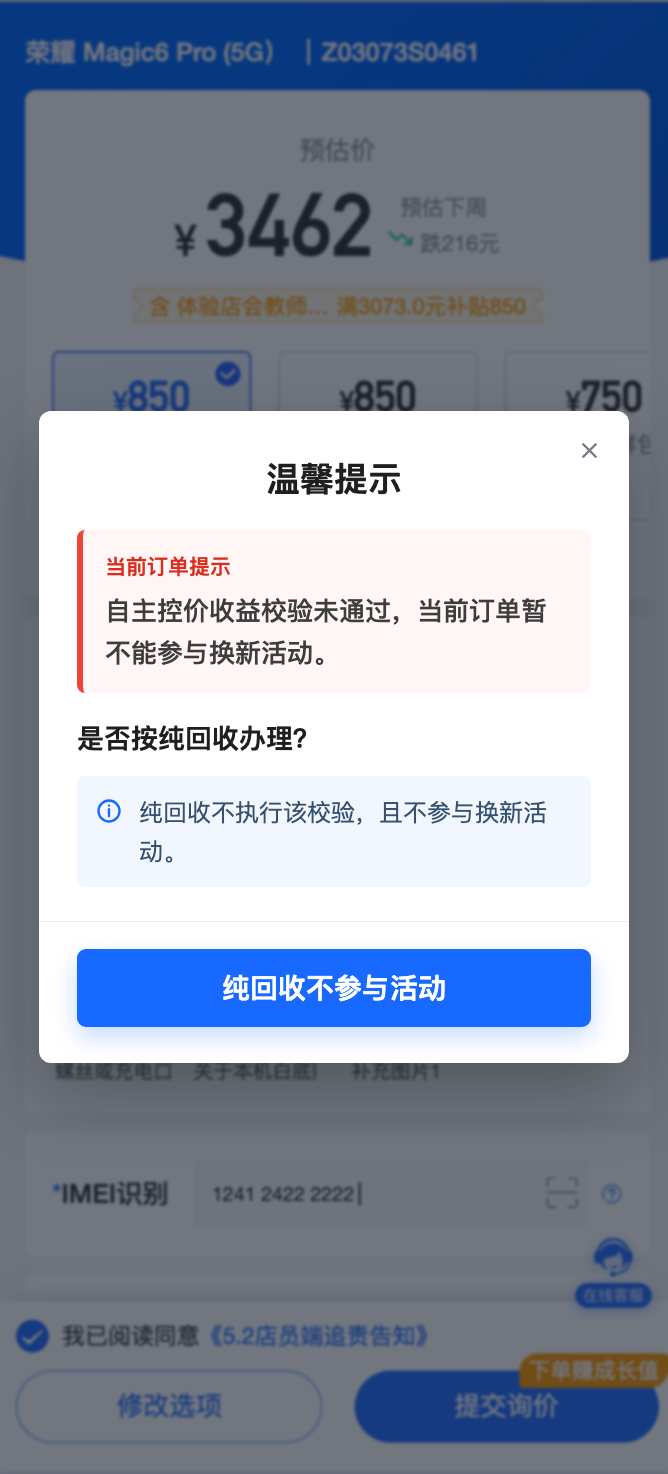
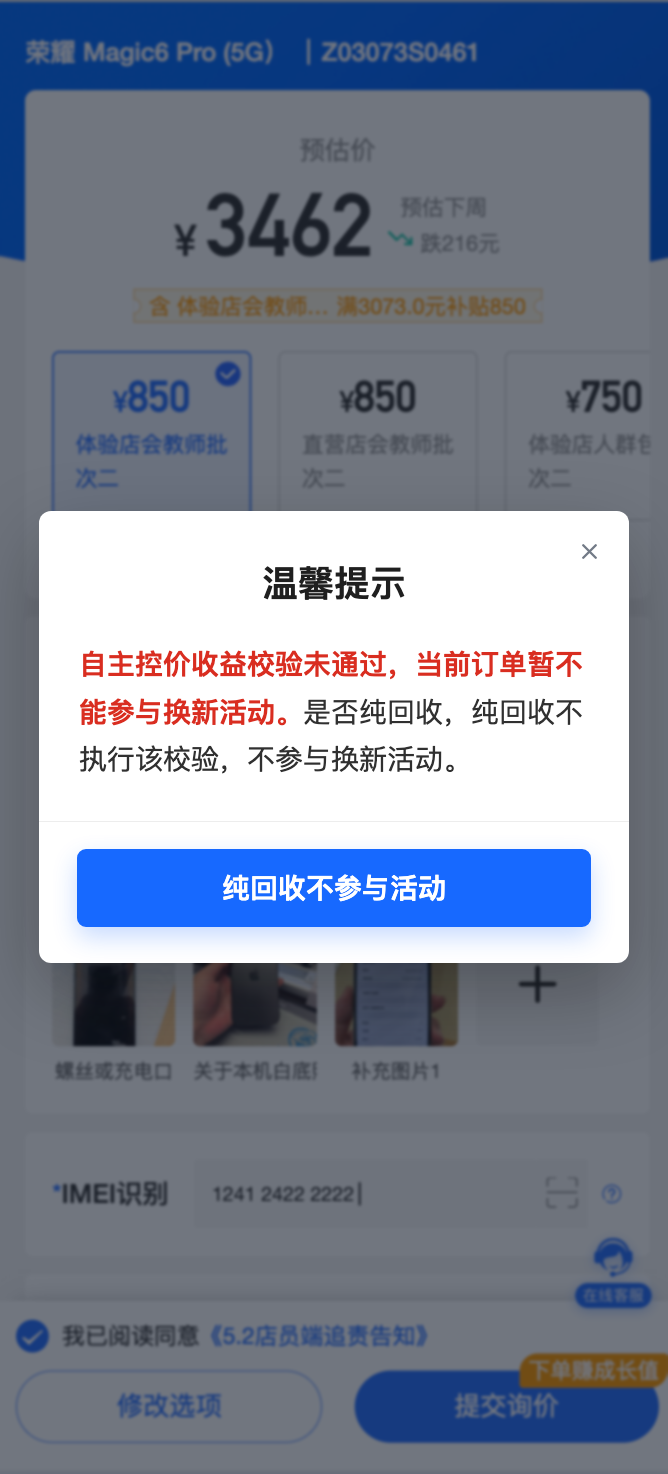
fix: align warning dialog copy with requirements

Changed region(s): [[0.0599, 0.2809, 0.9581, 0.749]]

diff --git a/popup.html b/popup.html
@@ -83,76 +83,31 @@
       }
 
       .content {
-        padding: 45px 38px 34px;
+        padding: 48px 40px 38px;
       }
 
       h1 {
-        margin: 0 0 28px;
+        margin: 0 0 32px;
         text-align: center;
-        font-size: 34px;
+        font-size: 36px;
         font-weight: 600;
         line-height: 1.35;
         letter-spacing: 0;
         color: #1f1f1f;
       }
 
-      .message-block {
-        padding: 22px 22px 20px;
-        border-left: 6px solid #f04438;
-        border-radius: 8px;
-        background: #fff6f5;
-      }
-
-      .message-label {
-        display: block;
-        margin-bottom: 8px;
-        font-size: 21px;
-        font-weight: 600;
-        line-height: 1.4;
-        color: #d92d20;
-      }
-
       .error-message {
         margin: 0;
-        font-size: 26px;
-        font-weight: 500;
-        line-height: 1.62;
+        font-size: 28px;
+        font-weight: 400;
+        line-height: 1.7;
         letter-spacing: 0;
-        color: #3d3d3d;
+        color: #303030;
       }
 
-      .question {
-        margin: 25px 0 16px;
-        font-size: 27px;
+      #error-copy {
         font-weight: 600;
-        line-height: 1.55;
-        letter-spacing: 0;
-        color: #1f1f1f;
-      }
-
-      .rule-note {
-        display: grid;
-        grid-template-columns: 34px minmax(0, 1fr);
-        gap: 10px;
-        align-items: start;
-        padding: 17px 18px;
-        border-radius: 8px;
-        font-size: 24px;
-        line-height: 1.6;
-        letter-spacing: 0;
-        color: #36516f;
-        background: #f2f7ff;
-      }
-
-      .rule-note svg {
-        width: 28px;
-        height: 28px;
-        margin-top: 4px;
-        fill: none;
-        stroke: #1769ff;
-        stroke-linecap: round;
-        stroke-linejoin: round;
-        stroke-width: 2;
+        color: #d92d20;
       }
 
       .actions {
@@ -240,7 +195,7 @@
           role="alertdialog"
           aria-modal="true"
           aria-labelledby="dialog-title"
-          aria-describedby="dialog-message dialog-rule"
+          aria-describedby="dialog-message"
         >
           <button class="close-button" id="close-button" type="button" aria-label="关闭温馨提示">
             <svg viewBox="0 0 24 24" aria-hidden="true">
@@ -250,24 +205,7 @@
 
           <div class="content">
             <h1 id="dialog-title">温馨提示</h1>
-
-            <div class="message-block">
-              <span class="message-label">当前订单提示</span>
-              <p class="error-message" id="dialog-message">
-                自主控价收益校验未通过，当前订单暂不能参与换新活动。
-              </p>
-            </div>
-
-            <p class="question">是否按纯回收办理？</p>
-
-            <div class="rule-note" id="dialog-rule">
-              <svg viewBox="0 0 24 24" aria-hidden="true">
-                <circle cx="12" cy="12" r="9"></circle>
-                <path d="M12 10.5v6"></path>
-                <path d="M12 7.5h.01"></path>
-              </svg>
-              <span>纯回收不执行该校验，且不参与换新活动。</span>
-            </div>
+            <p class="error-message" id="dialog-message"><span id="error-copy">自主控价收益校验未通过，当前订单暂不能参与换新活动。</span>是否纯回收，纯回收不执行该校验，不参与换新活动。</p>
           </div>
 
           <div class="actions">
@@ -285,12 +223,12 @@
       const closeButton = document.querySelector("#close-button");
       const confirmButton = document.querySelector("#confirm-button");
       const reopenButton = document.querySelector("#reopen-button");
-      const message = document.querySelector("#dialog-message");
+      const errorCopy = document.querySelector("#error-copy");
       const params = new URLSearchParams(window.location.search);
       const dynamicMessage = params.get("error");
 
       if (dynamicMessage?.trim()) {
-        message.textContent = dynamicMessage.trim();
+        errorCopy.textContent = dynamicMessage.trim();
       }
 
       function closeDialog() {

diff --git a/index.html b/index.html
@@ -274,7 +274,7 @@
       <span class="eyebrow">回收业务 · 弹窗优化</span>
       <h1>校验失败提示改为温馨提示弹窗</h1>
       <p class="intro">
-        原吐司提示改为带遮罩的阻塞式弹窗。弹窗承接对应报错文案，并引导用户确认是否按纯回收继续办理。
+        原吐司提示改为带遮罩的弹窗。弹窗展示对应报错提示，并明确纯回收不执行该校验、不参与换新活动。
       </p>
 
       <div class="workspace">
@@ -291,17 +291,17 @@
 
         <section class="details" aria-labelledby="details-title">
           <h2 id="details-title">弹窗信息结构</h2>
-          <p>标题固定为“温馨提示”，中间展示本次触发校验时的具体报错原因。</p>
+          <p>弹窗只保留你给定的信息，不增加提示标签或额外交互选项。</p>
 
           <ul class="points">
-            <li><span>01</span><div><b>动态报错文案</b>承接当前校验失败原因，避免只显示笼统的“操作失败”。</div></li>
-            <li><span>02</span><div><b>规则说明</b>明确纯回收不执行该校验，并且不参与换新活动。</div></li>
+            <li><span>01</span><div><b>温馨提示</b>作为固定标题。</div></li>
+            <li><span>02</span><div><b>正文</b>承接对应报错提示，并说明是否纯回收及纯回收规则。</div></li>
             <li><span>03</span><div><b>操作收敛</b>主按钮为“纯回收不参与活动”，右上角提供关闭按钮。</div></li>
           </ul>
 
           <div class="copy-block">
-            <strong>默认示例文案</strong>
-            <p>自主控价收益校验未通过，当前订单暂不能参与换新活动。</p>
+            <strong>弹窗正文示例</strong>
+            <p>自主控价收益校验未通过，当前订单暂不能参与换新活动。是否纯回收，纯回收不执行该校验，不参与换新活动。</p>
           </div>
 
           <div class="actions">

diff --git a/README.md b/README.md
@@ -10,8 +10,8 @@
 ## 交互
 
 - 标题固定为“温馨提示”。
-- 中间展示当前校验对应的报错提示，可通过 `popup.html?error=自定义报错文案` 替换。
-- 说明“纯回收不执行该校验，且不参与换新活动”。
+- 正文为“{对应报错提示}是否纯回收，纯回收不执行该校验，不参与换新活动。”
+- 对应报错提示可通过 `popup.html?error=自定义报错文案` 替换。
 - 主按钮为“纯回收不参与活动”。
 - 右上角提供关闭按钮，支持 `Esc` 键关闭。
 - 关闭后点击“重新查看弹窗”可恢复演示状态。
